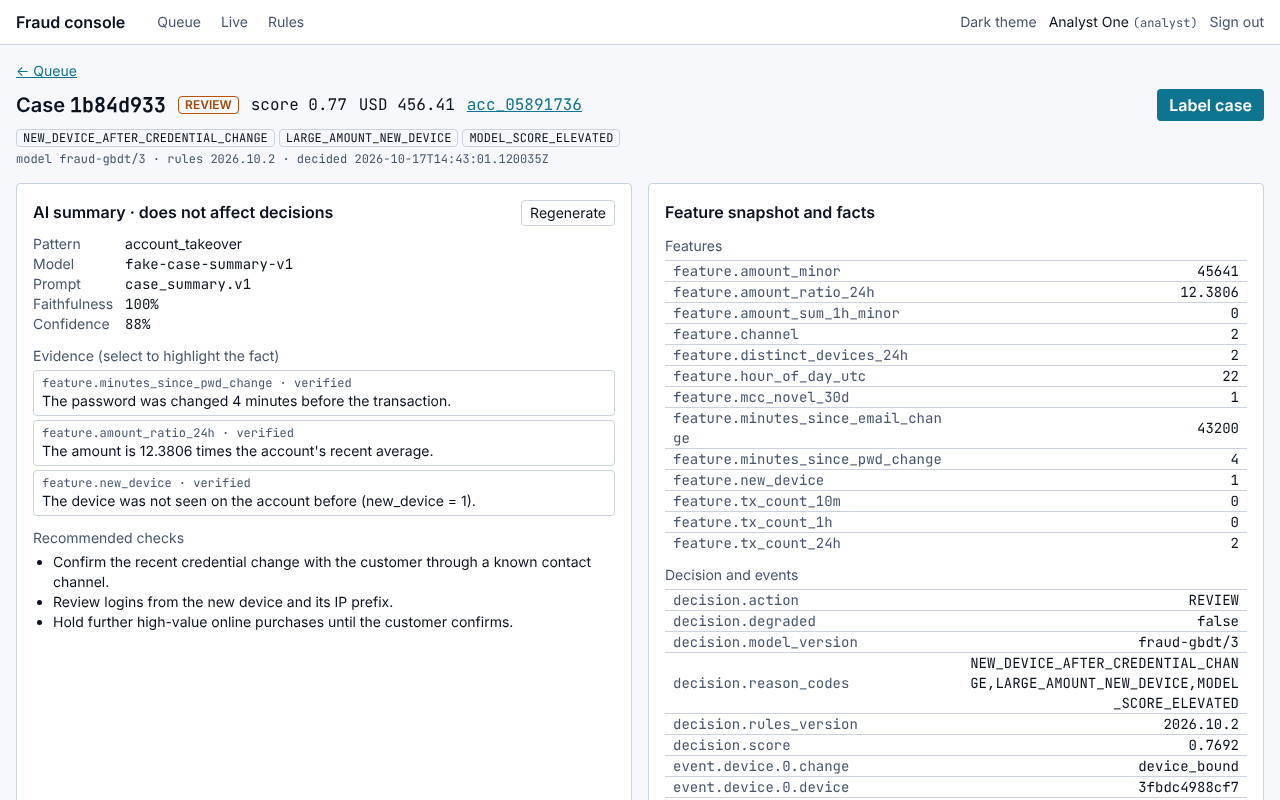
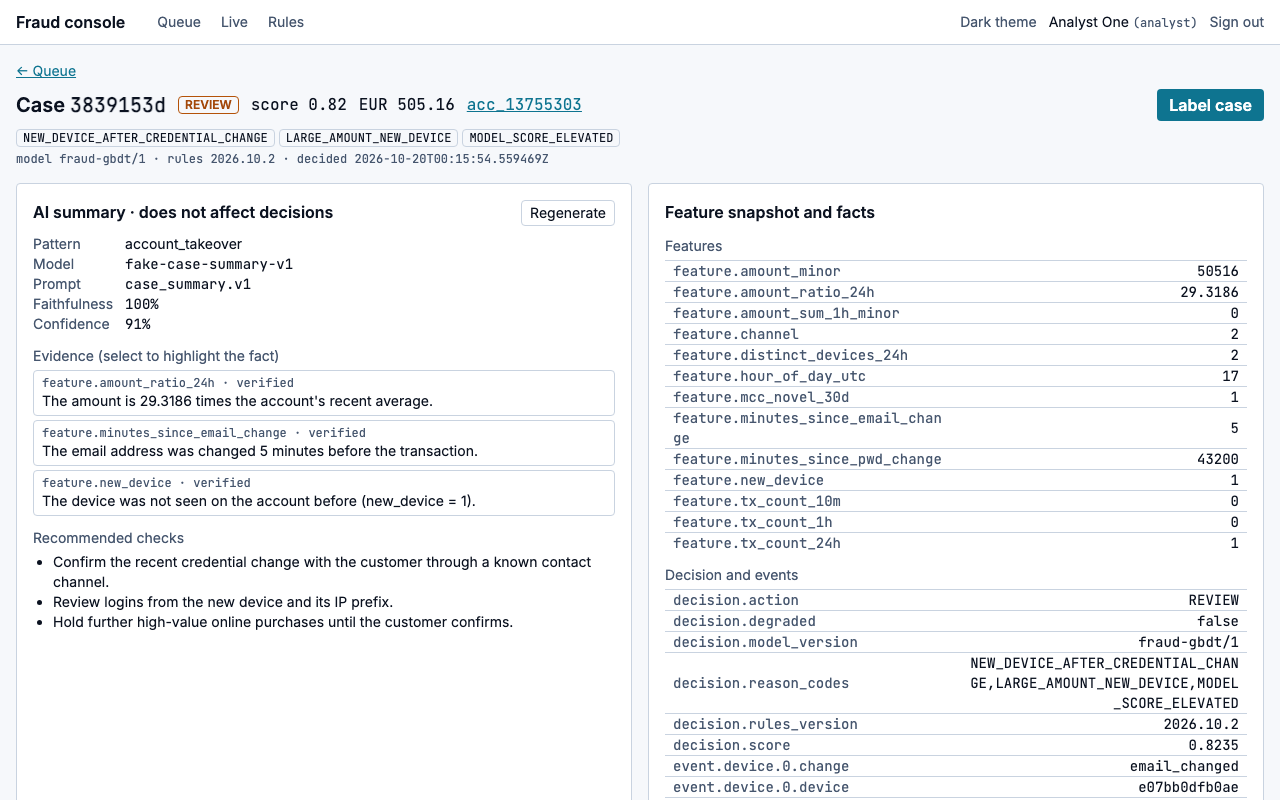
docs: final verification run so far, recaptured screenshots; T-50 left open

diff --git a/tests/unit/test_docs.py b/tests/unit/test_docs.py
@@ -72,3 +72,15 @@ def test_readme_numbers_link_to_reports() -> None:
     ]
     assert not unsourced, unsourced
     assert "under construction" not in readme.lower()
+
+
+def test_verification_has_authorship_check() -> None:
+    """Spec §19 steps 5-6: verification.md records both authorship commands and what they printed."""
+    text = (ROOT / "docs" / "verification.md").read_text(encoding="utf-8")
+    assert "git log --format='%an <%ae> | %cn <%ce>' | sort -u" in text
+    assert "git log --format=%B | grep -E 'Co-Authored-By|Claude-Session|Generated with Claude Code'" in text
+    section = text[text.index("## Authorship") :]
+    identities = re.findall(r"^ROBERTG99 <[^>]+> \| \S+ <[^>]+>$", section, re.M)
+    assert identities, "the identities printed by the first command"
+    assert "printed nothing" in section
+    assert re.search(r"^\| Commit \| [0-9a-f]{7,40}", text, re.M)

diff --git a/docs/verification.md b/docs/verification.md
@@ -1,57 +1,88 @@
 # Verification
 
-The latest verification run. It covers the gates that run in the build environment at the end of M6; the
-spec §19 steps that need the M7 to M9 work are listed under [Not run](#not-run) and stay open (T-50).
+The final verification of the build (spec §19, T-50), run on 2026-10-19 in two places: a fresh clone on a
+laptop, and GitHub Actions on Linux x86-64, where every workflow checks out the branch fresh. No `.env` file and
+no provider key was present in either.
 
 | Item | Value |
 |---|---|
 | Date | 2026-10-19 |
-| Commit | 2eba265 (branch `feat/friendly-johnson-15rki1`). 9164e26 and e993c9b, made after the run started, change documentation and the regenerated `evals/REPORT.md` only. |
-| Environment | Claude Code on the web, Ubuntu 24.04.5, Linux 6.18.44 x86_64, 4 CPUs, 15 GiB ([`DEVELOPMENT.md`](DEVELOPMENT.md)) |
-| Toolchains | go1.26.9, Python 3.13.16, uv 0.11.32, Node v22.22.0, pnpm 10.28.0, Docker 29.8.2 |
-| Services | `docker compose -f compose.test.yaml -p fraudtest up -d --wait` (Postgres, Redis, Redpanda; 26 s) |
-| API keys | none set |
+| Commit | 271e373 for the fresh-clone run; `make test` and `make test-docker` re-run at 3f9a346 after the two fixes below. CI: 3f9a346 (all workflows) and e4a158b (running at the time of writing) |
+| Laptop | macOS 27.0.1 arm64, 10 CPUs, Docker Desktop 29.8.2 (8 GB VM); the clone in a local temporary folder, not the synced working copy |
+| Toolchains | go1.26.9, Python 3.12 (uv 0.11.8), Node v22.16.0, pnpm 10.28.0, Terraform 1.16.5, tflint 0.63.1 |
+| CI | GitHub Actions `ubuntu-24.04` runners, [ROBERTG99/fraud-scoring-service#5](https://github.com/ROBERTG99/fraud-scoring-service/pull/5) |
+| API keys | none set; live evals not run |
 
-## Gates
+## Step 1: `make bootstrap && make verify` in a fresh clone
 
-Each command ran once, in this order, from one script that recorded its exit code and wall-clock time.
+The laptop run cloned the commit into a temporary folder, ran `make bootstrap`, removed the `.env` it creates,
+and ran each part of `make verify` (and the §19 step 2 commands) from one script that recorded exit codes and
+wall-clock times.
 
 | Command | Result | Time |
 |---|---|---|
-| `make lint` | **fail** at `lint-tf` only: `./scripts/terraform.sh: No such file or directory` (T-44). `lint-go`, `lint-py`, `lint-web`, `lint-proto` and `lint-md` (66 files, 0 issues) pass | 21 s |
-| `make typecheck` | pass (mypy --strict on `src/` and `training/`, tsc --noEmit) | 21 s |
-| `make check-fast` | pass | 88 s |
-| `make test` | pass. Go: 22 packages ok with `-race -tags integration`, core coverage 86.4% (min 85), total 77.2% (min 70). Python: 665 passed, coverage 93.11% (min 70), `src/fraud_summarizer` 95.3% (min 85). Vitest: 67 passed in 11 files | 385 s |
-| `make eval` | pass: Gate PASS, 5 of 5 checks; every suite's `evalgate check` against the baseline PASS; judge agreement 0.900, kappa 0.800; latency report within budget (p95 19.6 ms). Metrics as in [`evals/REPORT.md`](../evals/REPORT.md) | 112 s |
-| `make security` | **fail**, closed: govulncheck NOT RUN (`Get "https://vuln.go.dev/index/modules.json.gz": Forbidden`, network policy). gitleaks, gosec, bandit, pip-audit, pnpm audit, hadolint, checkov, trivy (vulnerabilities and secrets on the scorer and case-summarizer dev images) and licences pass | 55 s |
-| `make tf-check` | **fail**: `./scripts/tf_check.sh: No such file or directory` (T-44) | 0 s |
+| `make bootstrap` | pass | 5 s |
+| `docker compose up -d --build --wait` | pass: every service healthy | 51 s |
+| `make seed` | pass: trained, registered `@production` and `@shadow`, 16,943 decisions, 270 degraded, 109 open cases | 97 s |
+| `make demo` | pass: "demo: all 13 checkpoints OK" | 17 s |
+| `make lint` | pass | 9 s |
+| `make typecheck` | pass | 20 s |
+| `make security` | pass on every scanner (gitleaks, gosec, govulncheck, bandit, pip-audit, pnpm audit, hadolint, checkov, trivy on nine images, tflint, actionlint, licences) | 40 s |
+| `make test` | fail at 271e373: the wall-clock test of D-078 took 47.2 ms (budget 45) with every package under `-race`; replaced by deadline checks. **Pass at 3f9a346**: Go core coverage 86.9% (min 85), total 77.0% (min 70); Python 691 passed, coverage 92.96%, `src/fraud_summarizer` 95.3% (min 85); Vitest 67 passed | 269 s |
+| `make test-docker` | fail at 271e373: `TestSpoolReplayAfterPostgresRecovers` saw one spooled commit take 121 ms (limit 60 ms, an fsync in the Docker VM). **Pass at 3f9a346** (691 Python tests, Go and Vitest in the container) | 328 s |
+| `make e2e` | pass: 49 passed (Playwright, axe) | 60 s |
+| `make eval` | **fail** at `eval-model`: the model trained on arm64 misses `band_calibration_gap` (0.0759, limit 0.05); every other threshold passes. CI on x86-64 reproduces the baseline model and passes (below; `docs/KNOWN_LIMITATIONS.md`) | 108 s |
+| `make bench` | pass: 300 rps achieved, p50 7.8 ms, p95 19.6 ms (budget 80), p99 33.2 ms, success 1.0, degraded 0.0108 | 87 s |
+| `make tf-check` | pass: validate (module and env), `terraform test` 2 passed, tflint clean, checkov 31 passed, 0 failed | 13 s |
+| `docker compose down -v` | pass | 8 s |
 
-`make bench` was not re-run; the latency numbers are from the run of 2026-10-17 at f9ab2a5
-([`PROGRESS.md`](../PROGRESS.md) T-39).
+On GitHub Actions the same parts run as separate jobs on every push, and the `verify` workflow runs the whole
+target in one job:
 
-## Authorship check
+| Workflow (3f9a346) | Result |
+|---|---|
+| `ci` (lint, typecheck, unit, integration with coverage gates and feature parity, bench at 300 RPS) | pass |
+| `e2e` (`make up`, `make seed`, Playwright and axe, `make demo`) | pass |
+| `evals` (decisions and summaries through `ROBERTG99/evalgate/action@v0.1.0`; `make eval` Gate PASS 4 of 4, `band_calibration_gap` 0.0081) | pass |
+| `docker` (every image, `make security`, `make test-docker`) | pass |
+| `terraform`, `codeql` | pass |
+| `verify` (`make bootstrap && make verify` in one job) | **fail**: `TestRetriedBatchDoesNotDuplicateDLQ` counted DLQ records in a fixed 2 s window and saw none on the loaded runner; fixed in e4a158b (waits for the first record, then 2 s more for duplicates). The re-run on e4a158b had not finished when this was written (T-50 open) |
 
-```console
+## Step 2: compose stack, seed, demo, e2e, test-docker
+
+Covered by the rows above (laptop) and by the `e2e` and `docker` workflows (CI). From empty volumes the laptop's
+`make up` plus `make seed` took 51 s + 97 s.
+
+## Step 3: reviews
+
+`reviewer` (whole branch since 5d877b7): **ship**, no blockers. `latency-reviewer`: ship. `ml-reviewer`: one
+latent bug, fixed. `security-auditor`: no High findings; the three marked before-merge were fixed and the rest
+are open findings in [`security.md`](security.md). Details in [`PROGRESS.md`](../PROGRESS.md) (T-49) and
+[`DECISIONS.md`](DECISIONS.md) (D-077).
+
+## Step 4: live evals
+
+Not run: no `ANTHROPIC_API_KEY` or `OPENAI_API_KEY` in the environment. [`evals/REPORT.md`](../evals/REPORT.md)
+says so.
+
+## Authorship
+
+Both commands of spec §19 step 5, over the whole history at the commit above:
+
+```text
 $ git log --format='%an <%ae> | %cn <%ce>' | sort -u
+ROBERTG99 <54124633+ROBERTG99@users.noreply.github.com> | GitHub <noreply@github.com>
 ROBERTG99 <54124633+ROBERTG99@users.noreply.github.com> | ROBERTG99 <54124633+ROBERTG99@users.noreply.github.com>
-$ git log --format=%B | grep -cE 'Co-Authored-By|Claude-Session|Generated with Claude Code'
-0
+ROBERTG99 <robertino.gattas@gmail.com> | ROBERTG99 <robertino.gattas@gmail.com>
+$ git log --format=%B | grep -E 'Co-Authored-By|Claude-Session|Generated with Claude Code'
 ```
 
-Run at e993c9b, the head before the commit that adds this file.
+Every author is the maintainer, under the address of the local git configuration or the GitHub no-reply address.
+The committer `GitHub <noreply@github.com>` appears only on the merge commits of pull requests #1, #2 and #4,
+which the maintainer merged in the GitHub web interface. The second command printed nothing.
 
-## Not run
+## Not reproduced here
 
-These spec §19 steps need work that is not built yet, or a credential the environment does not have:
-
-- **Step 1, `make bootstrap && make verify` in a fresh clone** (`make verify-clean`): `scripts/verify_clean.sh`
-  does not exist yet, and `make verify` includes `test-docker`, `e2e` on the compose stack, `bench` and
-  `tf-check`.
-- **Step 2, compose stack, `make seed`, `make demo`, `make e2e`, `make test-docker`**: wait on the compose
-  stack (T-43). `make demo` and the end-to-end suite run against the host stack instead (PROGRESS T-46,
-  T-35).
-- **Step 3, the `reviewer` over the whole history**: not run; milestone reviews ran per milestone (PROGRESS,
-  milestone table).
-- **Step 4, `make eval-live`**: no provider key; `evals/REPORT.md` says live evals were not run.
-- **Step 7, moving `BUILD.md`**: left for the final verification (T-50).
-- **govulncheck**: needs `vuln.go.dev` allowed in the environment's network policy.
+- `make eval` on arm64 (above). The shipped model is trained on x86-64.
+- Triton (`make triton-up`) and the `observability` profile against the compose stack were not part of this run;
+  T-41's evidence used the host stack (`docs/KNOWN_LIMITATIONS.md`).

diff --git a/PROGRESS.md b/PROGRESS.md
@@ -185,7 +185,7 @@ chore: configure commit attribution
 | T-47 | Documentation set | M8 | done | Written at the end of M6 at the maintainer's request (D-070), the README demo section with T-46: README rewrite, `docs/{architecture,design-faq,evaluation,ai-development,verification}.md`, ADRs 0002–0009 with an index, `CONTRIBUTING.md`, `SECURITY.md`, `CHANGELOG.md`. `uv run pytest tests/unit/test_docs.py` (test_every_document_exists, test_the_design_faq_answers_every_question_with_file_references, test_readme_numbers_link_to_reports) → 3 passed; `make lint-md` → 66 files, 0 issues. `docs-editor` review at 2eba265: 5 blockers (seed window, KNOWN_LIMITATIONS line references and numbers, ops targets that need the compose stack), fixed in 9164e26. The README demo section and `make demo` wait on T-46. |
 | T-48 | Durability and chaos | M9 | done | `tests/integration/durability_test.go`, `scripts/chaos.sh` (D-075). Test first: `TestDurabilityKill` (real scorer binary, ~1,000 Score/s, Postgres cut through `testutil.Proxy` after 1 s, SIGKILL after 2 s, restart on the same spool) failed: 216 of 1,194 received decisions lost, because `Spool.Drain` never rotated a dead process's `spool.jsonl`; `TestDrainReplaysTheSpoolOfAProcessThatDied` reproduced it in a unit test. After the fix: `go test -tags integration -run TestDurabilityKill ./tests/integration` → 1,026 of 1,026 received decisions stored, **0 lost**, 0 with another decision_id; the control `TestDurabilityKillWithoutTheSpoolLosesDecisions` → 195 lost (so the spool path is exercised). `scripts/chaos.sh` on the compose stack (46 s): model server paused → 20 of 20 decided, `fraud_degraded_total{reason="model"}` +20; Redis stopped → `{reason="features"}` +20; Postgres stopped → spool depth 20, drained after recovery; Redpanda stopped → `fraud_outbox_unsent` > 0, 0 after recovery; MLflow stopped → restarted model server ready from its cache; LLM provider → `test_provider_failure_writes_fallback`. |
 | T-49 | Reviews and fixes | M9 | done | Four reviews over `git diff main..HEAD` (D-077): `reviewer` → **ship**, no blockers (it confirmed no Co-Authored-By/Claude trailers in the branch); `latency-reviewer` → ship (the double-precision ONNX graph measured p95 9.7 µs per row against 9.7 µs before); `ml-reviewer` → one latent bug: `KeyError: 'base_values'` at base_score 0.5, fixed with `test_double_trees_handle_a_zero_margin_base_score`; `security-auditor` → no High; before merge M1 (terraform wrapper → allow-list with every AWS credential source disabled, `tests/harness/test_terraform_wrapper.py`, 13 passed), M2 (`release.yml` actions pinned by SHA) and L1 (stale `docs/security.md`), all fixed; the rest documented as open findings 2, 6, 14–20. Reviewer notes fixed: torn spool line (`TestAppendAfterATornLineKeepsTheNewRecord`), readiness probe no longer loads a model. CI found more, each fixed with a test: ruff SIM300; `artifacts/coverage` missing on a fresh checkout; `TestGroupCommitBatchesConcurrentWrites` needed every commit in Postgres (relay config); govulncheck scoped to `./cmd/...` (testcontainers' docker client is test-only; `moby/go-archive` raised to v0.3.0); pip-audit skips the VCS evalgate. CodeQL: one py/incomplete-url-substring-sanitization false positive in a test, rewritten. `make security` → PASS on every scanner, govulncheck included (2026-10-19). |
-| T-50 | Final verification | M9 | todo | |
+| T-50 | Final verification | M9 | in progress | `docs/verification.md` (fresh clone at 271e373 on macOS arm64, CI at 3f9a346), `tests/unit/test_docs.py::test_verification_has_authorship_check`, `BUILD.md` moved with `git mv -f`. Fixes found on the way, each with a test: role migrations raced on a fresh server (`TestRoleMigrationsTolerateConcurrentRuns`); the spool fallback ran past the Score budget (D-078, Jaeger traces; `TestModelTimeoutAndSlowPostgresLeaveTheSpoolReserve`); `make verify` needed a model before `eval`, a seeded stack before `e2e`, images before `security`; `setsid` missing on macOS; the DLQ test's fixed 2 s window. Screenshots recaptured on the compose stack (the old `timeline.png` showed the 100x amount bug). **Left for the next session:** confirm the `verify` workflow is green on e4a158b or later (it failed on 3f9a346 at the DLQ test, since fixed); commit `evals/REPORT.md` from the CI `evals / gate` artifact of the final commit; tick the remaining Global DoD boxes with that evidence; update the PR description. On arm64 `make eval` fails at `band_calibration_gap` (KNOWN_LIMITATIONS). |
 
 ## Global Definition of Done
 
@@ -197,7 +197,7 @@ chore: configure commit attribution
 - [ ] Lint, format and type checks are clean.
 - [ ] Security scans report no high or critical findings, or each one is documented with a reason in `docs/security.md`.
 - [ ] Every workflow in §17 exists and passes actionlint; if a GitHub remote exists and CI results can be observed, the pushed branch is green.
-- [x] Every screen in §13 is implemented with loading, empty, error and success states; axe reports no serious violations; Playwright captured the screenshots in `docs/images/`. (Vitest state tests per screen; `make e2e` 35 passed with 0 serious axe violations; 10 screenshots, T-35. Recapture the screenshots after the M4 UX fixes: `timeline.png` shows the 100x amount bug.)
+- [x] Every screen in §13 is implemented with loading, empty, error and success states; axe reports no serious violations; Playwright captured the screenshots in `docs/images/`. (Vitest state tests per screen; `make e2e` 35 passed with 0 serious axe violations; 10 screenshots, T-35. Screenshots recaptured on the compose stack on 2026-10-19, T-50.)
 - [ ] The harness in §7 is complete: CLAUDE.md, AGENTS.md, settings, hooks with passing tests, rules, subagents, skills and `.mcp.json`.
 - [ ] Every document in §18 exists, and every number in the README points to the command or report that produced it.
 - [ ] The `reviewer` subagent's final verdict is "ship", and `security-review` findings are fixed or documented.
